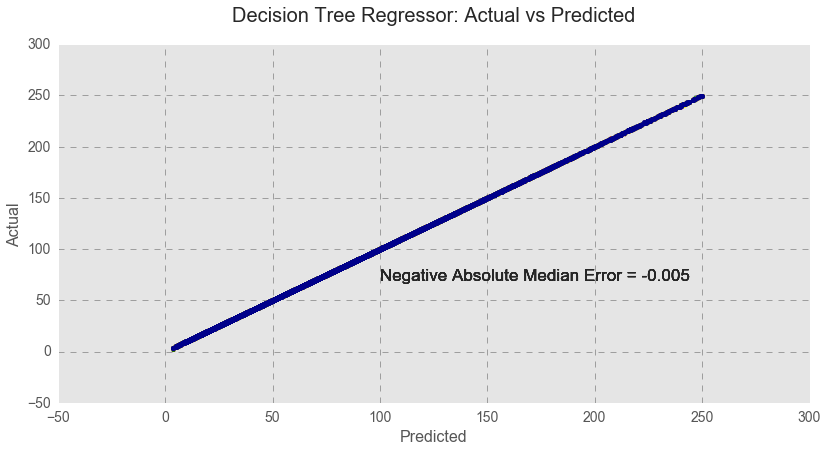
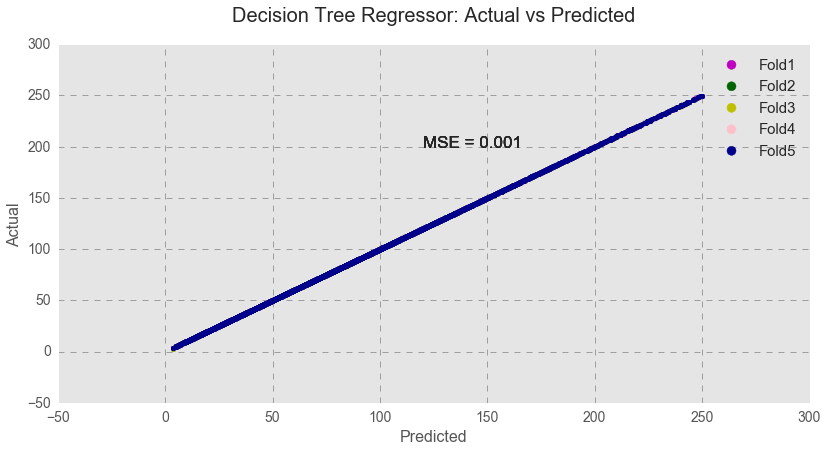
polishing blogs

diff --git a/_posts/2015-08-30-liqour.md b/_posts/2015-08-30-liqour.md
@@ -80,34 +80,39 @@ Before finalizing the final model, I checked whether the regression model meets 
 
 As the residuals vs. fitted values plot below indicates, there is a little skewness in linear relationship between predicted values and sale, but it is not large enough to discard the model. The Durbin – Watson (DW) statistics in the table above indicates that the regression model has a very slight positive autocorrelation with DW =1.70, but this value is also not large enough to discard the model.  Thus, we can say that the final regression model met the assumptions of linearity and statistical independence. The probability plot of residuals and the histogram of residuals bellow demonstrates no indication of abnormal distribution of errors. However, the residuals vs. fitted values plot obviously signals the presence of homoscedasticity as indicated by the funnel shape of the scatter points.
 
-Since the final regression model did not meet the assumptions of homoscedasticity and barely met the assumptions of the assumptions of linearity and statistical independence, it could not be used as a final profitability model for Iowa liquor stores. Instead, I ran and cross-validated several non-parametric repressors: Decision Tree, Bagging DT, Random Forest, Ada Boost, Gradient Boosting, and Neural Network. I used MSE as a cross-validation score, and there were some fluctuations in the scores. As seen below, ada boost algorithm yielded slightly lower accuracy score than the other algorithms.
- 
+Since the final regression model did not meet the assumptions of homoscedasticity and barely met the assumptions of the assumptions of linearity and statistical independence, it could not be used as a final profitability model for Iowa liquor stores. Instead, I ran and cross-validated several non-parametric repressors: Decision Tree, Bagging DT, Random Forest, Ada Boost, Gradient Boosting, and Neural Network. I used MSE as a cross-validation score, and there were some fluctuations in the scores. As seen below, Ada Boost algorithm yielded slightly lower accuracy score than the other algorithms, as indicated by higher MSE.
 
-<figure style="width: 300px" class="align-center">
-![Table with Scores]({{ site.url }}{{ site.baseurl }}/images/table2_2.png)
-</figure>
-
-
-<figure style="width: 300px" class="align-center">
+<figure style="width: 600px" class="align-center">
   <img src="{{ site.url }}{{ site.baseurl }}/images/table2_2.png" alt="">
 </figure>
 
+I chose the Decision Tree regressor and Ada Boost regressor as my final non-parametric profitability models. The decision tree model was one of my choices because in spite of its propensity to overfitting, it is the easiest model to use and interpret (after the linear regression), performs well with a large set of data, has a higher training and prediction speed.
 
-I chose the decision tree repressor and ada boost repressor as my final non-parametric profitability models. The decision tree model was one of my choices because in spite of its propensity to overfitting, it is the easiest model to use and interpret (after the linear regression), performs well with a large set of data, has higher training and prediction speed.
 
 ![Decision Tree]({{ site.url }}{{ site.baseurl }}/images/pic2_8.png){: .align-center} 
 
 
-However, as seen below decision tree model perfectly fits the data, and it is a sign of overfiiting. 
+As seen above, the decision tree regressor builds a regression model in the form of a tree structure. Here, I am only presenting the tree with maximum depth of 3 for demonstration.  A decision node  Sales has two original branches, sales that equals to or more than 52.76 and sales that equal to or more than 155.33, each representing values for the attribute the attribute tested. The branches split into smaller into successively purer subsets further and further until it reaches the best possible purity. 
+
+However, as seen below decision tree model perfectly fits the data, and I am very suspicious that it might be a sign of overfitting.
+ 
+
+![Decision Tree Regressor]({{ site.url }}{{ site.baseurl }}/images/pic2_7.png){: .align-center} 
 
 
-![Decision Tree]({{ site.url }}{{ site.baseurl }}/images/pic2_7.png){: .align-center} 
+The Ada Boost algorithm is more robust to overfitting and yields more accurate results, but much harder to interpret. Ada Boost (with decision trees as the weak learners) yields a slightly higher MSE score, indicating a lower accuracy. Even so, the algorithm with lower accuracy might be an equally good choice in this case to avoid the model's overfitting. 
 
 
-The ada boost algorithm is more robust to overfitting and yields more accurate results, but much harder to interpret.
+![Ada Boost Regressor]({{ site.url }}{{ site.baseurl }}/images/pic2_9.png){: .align-center} 
+
+
+Since both models have advantages and disadvantages and it is hard to say which model is better, I would keep both machine learning algorithms for future evaluations and apply them both to new data sets to evaluate the model's accuracy.
 
 
 ### Conclusion
+
+In this project, I built a profitability model for Iowa liquor stores. First, linear regression model was constructed using a step-wise approach. However, the model did not meet all linear regression assumptions, and I had to use non-parametric algorithms. I ran six algorithms and all of them (except Ada Boost) produced similar accuracy scores as measured by MSE. Because they were close to prefect, possibly indicating an overfitting, I selected Ada Boost along with Decision Tree as my final algorithms. Decision Tree is easy to interpret, performs really well with a large set of data, and has a high training and prediction speed. Ada Boost, on the other hand, is very hard to interpret but it very robust to overfitting. 
+
 
 
 

diff --git a/_posts/2016-05-30-titanic.md b/_posts/2016-05-30-titanic.md
@@ -94,7 +94,7 @@ Before conducting model selection and evaluation, several imputations were emplo
 
 I used several advanced imputation techniques to impute the continuous variable Age. I am a very strong opponent of using mean or median imputation to impute data. It is very bad practice in general as it leads to distortion of relationship between variables by pulling estimates of the correlation towards zero. Thus, I applied 4 advanced techniques to impute the Titanic data: 1) KNN, 2) Convex Optimization, 3) Spectral Regulation Algorithm, and 4) Multiple Imputations by Chain Equations or MICE. 
 
-To compare across the imputation algorithms, I used [root-mean-square error (RMSE)](https://en.wikipedia.org/wiki/Root-mean-square_deviation), replicating work by Schmitt, Mandel, and Guedj (2015). This method, however, did not bring me any success as I found no variations in imputation techniques detected by RMSE. Thus, I performed a model comparison (for review see Schmitt, Mandel, & Guedj, 2015) by comparing accuracy scores of various algorithms. See python codes and outputs here. I finally chose the KNN imputation technique as it gave me the highest accuracy scores across the algorithms. 
+To compare across the imputation algorithms, I used [root-mean-square error (RMSE)](https://en.wikipedia.org/wiki/Root-mean-square_deviation), replicating work by Schmitt, Mandel, and Guedj (2015). This method, however, did not bring me any success as I found no variations in imputation techniques detected by RMSE. Thus, I performed a model comparison (for review see Schmitt, Mandel, & Guedj, 2015) by comparing accuracy scores of various algorithms. See python codes and outputs [here](https://github.com/dmarinav/My_Projects/blob/master/TITANIC/Titanic2_Fancy_Imputation.ipynb). I finally chose the KNN imputation technique as it gave me the highest accuracy scores across the algorithms. 
 
 Further, I compared the accuracy scores across various algorithms (Decision Tree, Logistic Regression, Bagging DT, Random Forest, Extra Trees, Ada Boost, Gradient Boosting, Bernoulli NB, and KNN ) and various statistical models (models with/without various interactions) for the imputed data set and for the original data set. My final choice was the statistical model with Fare-by-Sex interaction with KNN imputation and the Gradient Boosting Algorithm.
 
